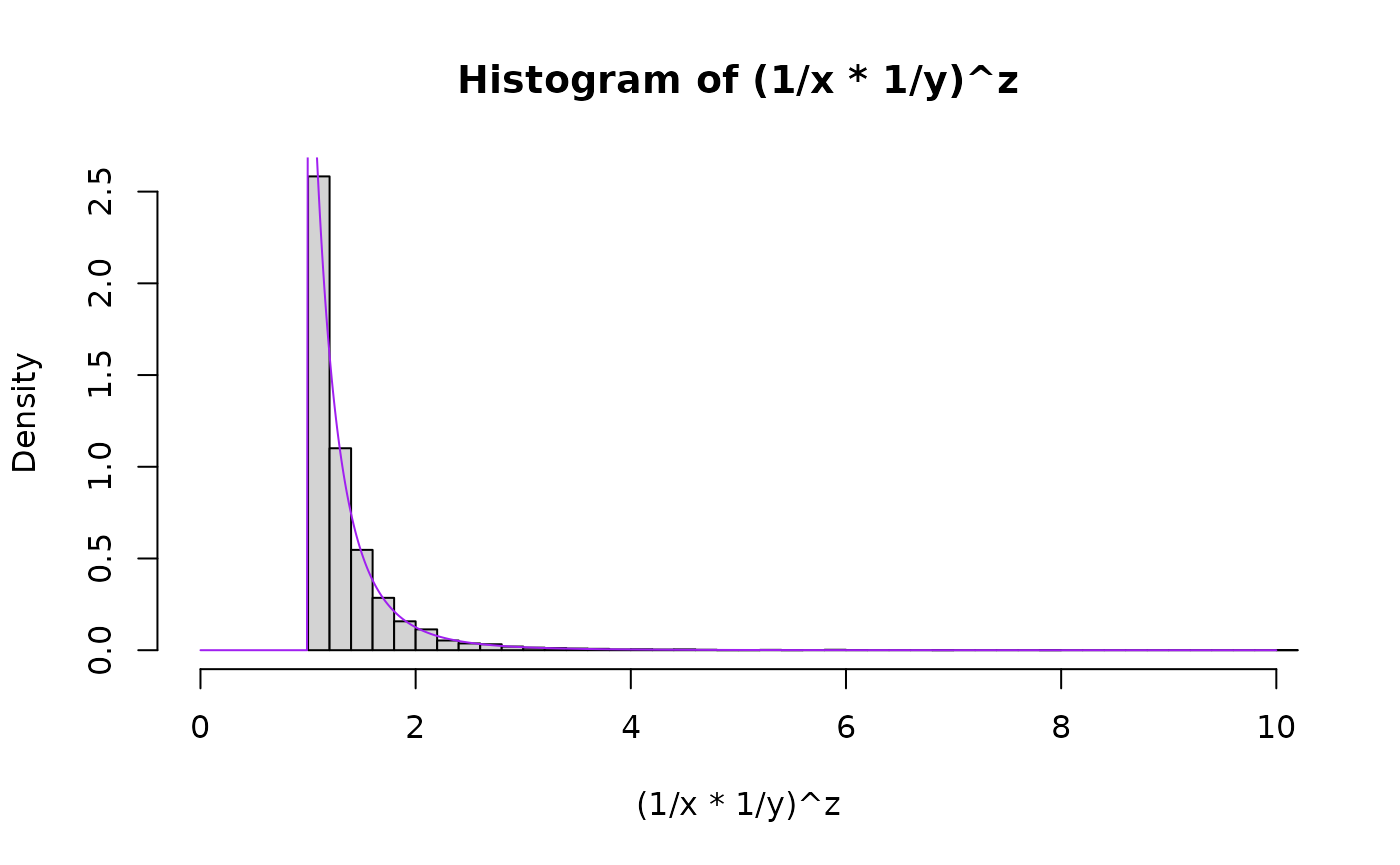
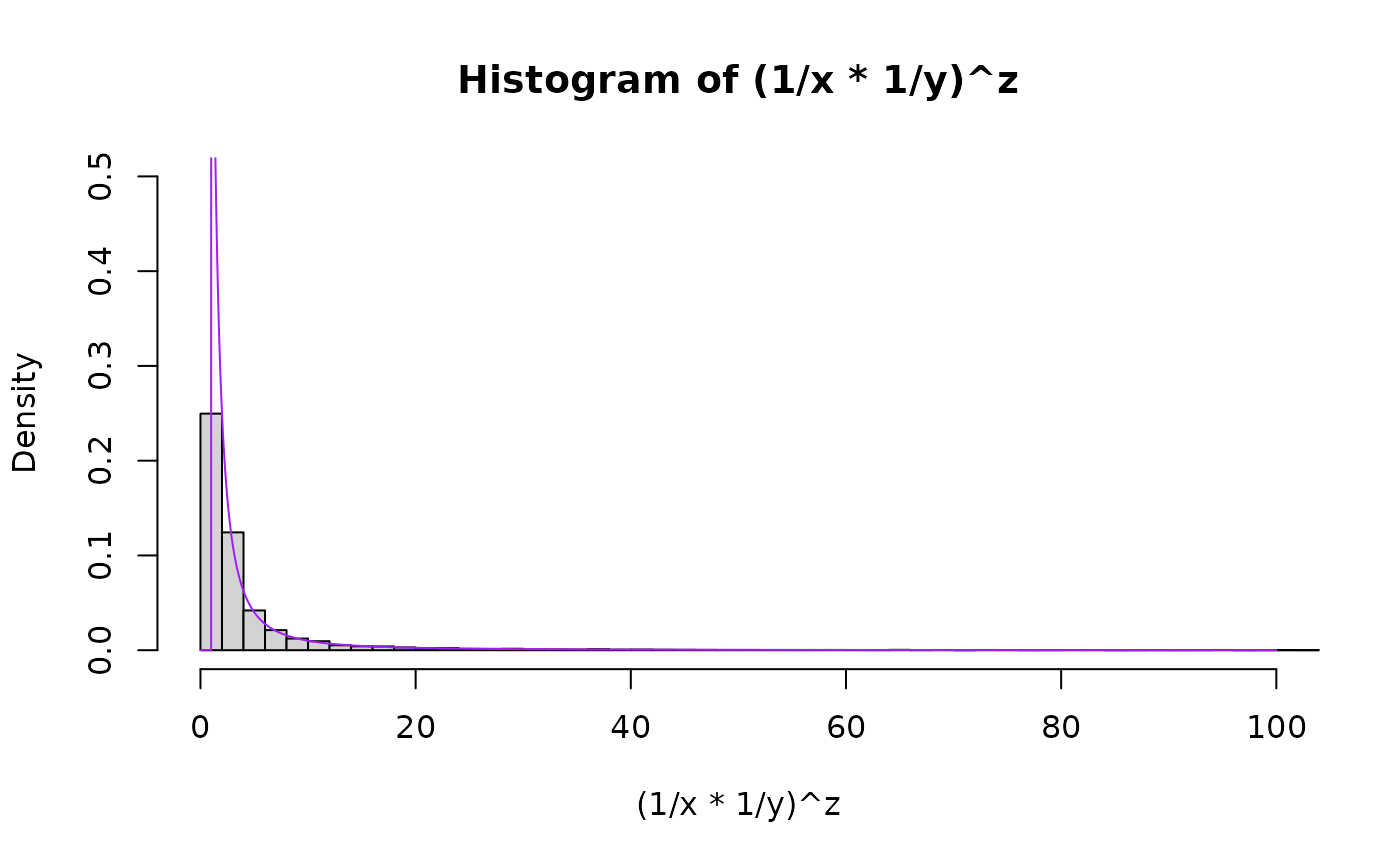
Deploying to gh-pages from @ swihart/mvpd@7a2cb15c7c6c877df708864ca148e577ea77bc69 🚀

diff --git a/articles/xy_to_the_z_part_i.html b/articles/xy_to_the_z_part_i.html
@@ -216,20 +216,27 @@ as an arbitrary value smaller than 1.</p>
 </div>
 </div>
 <div class="section level3">
-<h3 id="log-scale-intuition-building">Log-scale intuition building<a class="anchor" aria-label="anchor" href="#log-scale-intuition-building"></a>
+<h3 id="log-scale-for-intuition-building">Log-scale for intuition building<a class="anchor" aria-label="anchor" href="#log-scale-for-intuition-building"></a>
 </h3>
 <p>Consider the log scale, which changes the relation from a product
 raised to a power into a sum multiplied by a number. In other words, a
 convolution (sum of two random variables) and a scale mixture (then
-multiplied by a random variable). Take a look at this for alpha=1:</p>
+multiplied by a random variable).</p>
+<p>We will visualize this using 5 plots arranged in a 3x3 grid. The left
+column will show the distributions of each of the 3 components of
+consideration (log(X), log(Y), and Z), the middle column will just show
+the convolution of log(X) and log(Y), that is to say log(X)+log(Y), and
+the third one will show the scale mixture applied to the
+convolution.</p>
+<p>Take a look at this for alpha=1:</p>
 <p><img src="xy_to_the_z_part_i_files/figure-html/unnamed-chunk-5-1.png" width="700"></p>
 <p>Quick observations –</p>
 <ul>
 <li>log(X): is a reflected Exponential, as is log(Y)</li>
 <li>log(X) + log(Y): the convolution (i.e., sum) of two reflected
 Exponentials is more disperse and squattier. We know this because think
-of adding two normals together and the resultant Normal have the sum of
-the variance.</li>
+of adding two normals together and the variance of the resultant Normal
+having the sum of the variances of the original normals.</li>
 <li>Z(log(X)+log(Y)): to “recover” or “get back to” the original
 distribution before the convolution, we need to “tighten” or “gather” or
 “concentrate” the distribution. Multiplying it by a random number
@@ -255,30 +262,39 @@ the theory in action for
 <math display="inline" xmlns="http://www.w3.org/1998/Math/MathML"><semantics><mrow><msup><mrow><mo stretchy="true" form="prefix">(</mo><mfrac><mn>1</mn><mrow><mi>X</mi><mi>Y</mi></mrow></mfrac><mo stretchy="true" form="postfix">)</mo></mrow><mi>Z</mi></msup><mo>∼</mo></mrow><annotation encoding="application/x-tex">\left(\frac{1}{XY} \right)^Z  \sim</annotation></semantics></math>
 Pareto(<math display="inline" xmlns="http://www.w3.org/1998/Math/MathML"><semantics><mrow><msub><mi>x</mi><mi>m</mi></msub><mo>=</mo><mn>1</mn></mrow><annotation encoding="application/x-tex">x_m=1</annotation></semantics></math>,
 <math display="inline" xmlns="http://www.w3.org/1998/Math/MathML"><semantics><mrow><msub><mi>α</mi><mi>m</mi></msub><mo>=</mo><mi>α</mi></mrow><annotation encoding="application/x-tex">\alpha_m = \alpha</annotation></semantics></math>).
-We’ll plot the theoretical result in purple on top of the histogram.</p>
+We’ll plot the theoretical result in purple on top of the histogram.
+First for
+<math display="inline" xmlns="http://www.w3.org/1998/Math/MathML"><semantics><mrow><mi>α</mi><mo>=</mo><mn>1</mn></mrow><annotation encoding="application/x-tex">\alpha=1</annotation></semantics></math>,
+the special uniform instance (because that is what started it all for
+Result 1!) and
+<math display="inline" xmlns="http://www.w3.org/1998/Math/MathML"><semantics><mrow><mi>α</mi><mo>=</mo><mn>4.318</mn></mrow><annotation encoding="application/x-tex">\alpha=4.318</annotation></semantics></math>
+as an arbitrary value bigger than 1 and
+<math display="inline" xmlns="http://www.w3.org/1998/Math/MathML"><semantics><mrow><mi>α</mi><mo>=</mo><mn>0.633</mn></mrow><annotation encoding="application/x-tex">\alpha=0.633</annotation></semantics></math>
+as an arbitrary value smaller than 1.</p>
+<div class="section level4">
+<h4 id="alpha-1-000">alpha = 1.000<a class="anchor" aria-label="anchor" href="#alpha-1-000"></a>
+</h4>
 <div class="sourceCode" id="cb2"><pre class="downlit sourceCode r">
 <code class="sourceCode R"><span><span class="fu"><a href="https://rdrr.io/r/base/Random.html" class="external-link">set.seed</a></span><span class="op">(</span><span class="fl">1</span><span class="op">)</span></span>
 <span><span class="va">nsims</span> <span class="op">&lt;-</span> <span class="fl">1e4</span></span>
-<span><span class="va">aa_x</span> <span class="op">&lt;-</span> <span class="fl">4</span></span>
-<span><span class="va">aa_y</span> <span class="op">&lt;-</span> <span class="fl">4</span></span>
+<span><span class="va">aa_x</span> <span class="op">&lt;-</span> <span class="fl">1</span></span>
+<span><span class="va">aa_y</span> <span class="op">&lt;-</span> <span class="fl">1</span></span>
 <span></span>
 <span><span class="va">x</span> <span class="op">&lt;-</span> <span class="fu"><a href="https://rdrr.io/r/stats/Beta.html" class="external-link">rbeta</a></span><span class="op">(</span><span class="va">nsims</span>,<span class="va">aa_x</span>,<span class="fl">1</span><span class="op">)</span> <span class="co">##runif(nsims,0,1)</span></span>
 <span><span class="va">y</span> <span class="op">&lt;-</span> <span class="fu"><a href="https://rdrr.io/r/stats/Beta.html" class="external-link">rbeta</a></span><span class="op">(</span><span class="va">nsims</span>,<span class="va">aa_y</span>,<span class="fl">1</span><span class="op">)</span> <span class="co">##runif(nsims,0,1)</span></span>
 <span><span class="va">z</span> <span class="op">&lt;-</span> <span class="fu"><a href="https://rdrr.io/r/stats/Uniform.html" class="external-link">runif</a></span><span class="op">(</span><span class="va">nsims</span>,<span class="fl">0</span>,<span class="fl">1</span><span class="op">)</span></span>
 <span></span>
+<span><span class="fu"><a href="https://rdrr.io/r/graphics/hist.html" class="external-link">hist</a></span><span class="op">(</span><span class="op">(</span><span class="fl">1</span><span class="op">/</span><span class="va">x</span><span class="op">*</span><span class="fl">1</span><span class="op">/</span><span class="va">y</span><span class="op">)</span><span class="op">^</span><span class="va">z</span>, breaks<span class="op">=</span><span class="fl">2</span><span class="op">*</span><span class="fl">500</span>, freq<span class="op">=</span><span class="cn">FALSE</span>, xlim<span class="op">=</span><span class="fu"><a href="https://rdrr.io/r/base/c.html" class="external-link">c</a></span><span class="op">(</span><span class="fl">0</span>,<span class="fl">100</span><span class="op">)</span>, ylim<span class="op">=</span><span class="fu"><a href="https://rdrr.io/r/base/c.html" class="external-link">c</a></span><span class="op">(</span><span class="fl">0</span>,<span class="fl">0.5</span><span class="op">)</span><span class="op">)</span></span>
 <span></span>
-<span>  </span>
-<span><span class="fu"><a href="https://rdrr.io/r/graphics/hist.html" class="external-link">hist</a></span><span class="op">(</span><span class="op">(</span><span class="fl">1</span><span class="op">/</span><span class="va">x</span><span class="op">*</span><span class="fl">1</span><span class="op">/</span><span class="va">y</span><span class="op">)</span><span class="op">^</span><span class="va">z</span>, breaks<span class="op">=</span><span class="fl">50</span>, freq<span class="op">=</span><span class="cn">FALSE</span>, xlim<span class="op">=</span><span class="fu"><a href="https://rdrr.io/r/base/c.html" class="external-link">c</a></span><span class="op">(</span><span class="fl">0</span>,<span class="fl">10</span><span class="op">)</span><span class="op">)</span></span>
-<span></span>
-<span><span class="fu"><a href="https://rdrr.io/r/graphics/lines.html" class="external-link">lines</a></span><span class="op">(</span>               <span class="fu"><a href="https://rdrr.io/r/base/seq.html" class="external-link">seq</a></span><span class="op">(</span><span class="fl">0</span>,<span class="fl">10</span>,<span class="fl">0.01</span><span class="op">)</span>,</span>
-<span>                     <span class="fu">LNPar</span><span class="fu">::</span><span class="fu"><a href="https://rdrr.io/pkg/LNPar/man/dpareto.html" class="external-link">dpareto</a></span><span class="op">(</span><span class="fu"><a href="https://rdrr.io/r/base/seq.html" class="external-link">seq</a></span><span class="op">(</span><span class="fl">0</span>,<span class="fl">10</span>,<span class="fl">0.01</span><span class="op">)</span>,<span class="fl">1</span>,alpha<span class="op">=</span><span class="va">aa_x</span><span class="op">)</span>,</span>
+<span><span class="fu"><a href="https://rdrr.io/r/graphics/lines.html" class="external-link">lines</a></span><span class="op">(</span>               <span class="fu"><a href="https://rdrr.io/r/base/seq.html" class="external-link">seq</a></span><span class="op">(</span><span class="fl">0</span>,<span class="fl">100</span>,<span class="fl">0.01</span><span class="op">)</span>,</span>
+<span>                     <span class="fu">LNPar</span><span class="fu">::</span><span class="fu"><a href="https://rdrr.io/pkg/LNPar/man/dpareto.html" class="external-link">dpareto</a></span><span class="op">(</span><span class="fu"><a href="https://rdrr.io/r/base/seq.html" class="external-link">seq</a></span><span class="op">(</span><span class="fl">0</span>,<span class="fl">100</span>,<span class="fl">0.01</span><span class="op">)</span>,<span class="fl">1</span>,alpha<span class="op">=</span><span class="va">aa_x</span><span class="op">)</span>,</span>
 <span>                     type<span class="op">=</span><span class="st">"l"</span>,</span>
 <span>                     col<span class="op">=</span><span class="st">"purple"</span></span>
 <span><span class="op">)</span></span>
 <span></span>
-<span><span class="fu"><a href="https://rdrr.io/r/graphics/hist.html" class="external-link">hist</a></span><span class="op">(</span><span class="fl">1</span><span class="op">/</span><span class="va">x</span>, freq<span class="op">=</span><span class="cn">FALSE</span>, breaks<span class="op">=</span><span class="fl">50</span>, xlim<span class="op">=</span><span class="fu"><a href="https://rdrr.io/r/base/c.html" class="external-link">c</a></span><span class="op">(</span><span class="fl">0</span>,<span class="fl">10</span><span class="op">)</span><span class="op">)</span></span>
-<span><span class="fu"><a href="https://rdrr.io/r/graphics/lines.html" class="external-link">lines</a></span><span class="op">(</span>               <span class="fu"><a href="https://rdrr.io/r/base/seq.html" class="external-link">seq</a></span><span class="op">(</span><span class="fl">0</span>,<span class="fl">10</span>,<span class="fl">0.01</span><span class="op">)</span>,</span>
-<span>                     <span class="fu">LNPar</span><span class="fu">::</span><span class="fu"><a href="https://rdrr.io/pkg/LNPar/man/dpareto.html" class="external-link">dpareto</a></span><span class="op">(</span><span class="fu"><a href="https://rdrr.io/r/base/seq.html" class="external-link">seq</a></span><span class="op">(</span><span class="fl">0</span>,<span class="fl">10</span>,<span class="fl">0.01</span><span class="op">)</span>,<span class="fl">1</span>,alpha<span class="op">=</span><span class="va">aa_x</span><span class="op">)</span>,</span>
+<span><span class="fu"><a href="https://rdrr.io/r/graphics/hist.html" class="external-link">hist</a></span><span class="op">(</span><span class="fl">1</span><span class="op">/</span><span class="va">x</span>, freq<span class="op">=</span><span class="cn">FALSE</span>, breaks<span class="op">=</span><span class="fl">2</span><span class="op">*</span><span class="fl">3000</span>, xlim<span class="op">=</span><span class="fu"><a href="https://rdrr.io/r/base/c.html" class="external-link">c</a></span><span class="op">(</span><span class="fl">0</span>,<span class="fl">100</span><span class="op">)</span>, ylim<span class="op">=</span><span class="fu"><a href="https://rdrr.io/r/base/c.html" class="external-link">c</a></span><span class="op">(</span><span class="fl">0</span>,<span class="fl">0.5</span><span class="op">)</span><span class="op">)</span></span>
+<span><span class="fu"><a href="https://rdrr.io/r/graphics/lines.html" class="external-link">lines</a></span><span class="op">(</span>               <span class="fu"><a href="https://rdrr.io/r/base/seq.html" class="external-link">seq</a></span><span class="op">(</span><span class="fl">0</span>,<span class="fl">100</span>,<span class="fl">0.01</span><span class="op">)</span>,</span>
+<span>                     <span class="fu">LNPar</span><span class="fu">::</span><span class="fu"><a href="https://rdrr.io/pkg/LNPar/man/dpareto.html" class="external-link">dpareto</a></span><span class="op">(</span><span class="fu"><a href="https://rdrr.io/r/base/seq.html" class="external-link">seq</a></span><span class="op">(</span><span class="fl">0</span>,<span class="fl">100</span>,<span class="fl">0.01</span><span class="op">)</span>,<span class="fl">1</span>,alpha<span class="op">=</span><span class="va">aa_x</span><span class="op">)</span>,</span>
 <span>                     type<span class="op">=</span><span class="st">"l"</span>,</span>
 <span>                     col<span class="op">=</span><span class="st">"purple"</span></span>
 <span><span class="op">)</span></span>
@@ -286,28 +302,30 @@ We’ll plot the theoretical result in purple on top of the histogram.</p>
 <span><span class="co">## compare mean, variance, and 2nd moment</span></span>
 <span><span class="va">prod</span> <span class="op">&lt;-</span> <span class="op">(</span><span class="fl">1</span><span class="op">/</span><span class="va">x</span><span class="op">*</span><span class="fl">1</span><span class="op">/</span><span class="va">y</span><span class="op">)</span><span class="op">^</span><span class="va">z</span></span>
 <span><span class="fu"><a href="https://rdrr.io/r/base/mean.html" class="external-link">mean</a></span><span class="op">(</span><span class="va">prod</span><span class="op">)</span></span>
-<span><span class="co">#&gt; [1] 1.337099</span></span>
+<span><span class="co">#&gt; [1] 8.878238</span></span>
 <span><span class="fu"><a href="https://rdrr.io/r/stats/cor.html" class="external-link">var</a></span><span class="op">(</span><span class="va">prod</span><span class="op">)</span></span>
-<span><span class="co">#&gt; [1] 0.218648</span></span>
+<span><span class="co">#&gt; [1] 4277.258</span></span>
 <span><span class="fu"><a href="https://rdrr.io/r/stats/cor.html" class="external-link">var</a></span><span class="op">(</span><span class="va">prod</span><span class="op">)</span> <span class="op">+</span> <span class="fu"><a href="https://rdrr.io/r/base/mean.html" class="external-link">mean</a></span><span class="op">(</span><span class="va">prod</span><span class="op">)</span><span class="op">^</span><span class="fl">2</span></span>
-<span><span class="co">#&gt; [1] 2.006483</span></span>
+<span><span class="co">#&gt; [1] 4356.082</span></span>
 <span></span>
 <span></span>
 <span><span class="fu"><a href="https://rdrr.io/r/base/mean.html" class="external-link">mean</a></span><span class="op">(</span><span class="fl">1</span><span class="op">/</span><span class="va">x</span><span class="op">)</span></span>
-<span><span class="co">#&gt; [1] 1.333382</span></span>
+<span><span class="co">#&gt; [1] 10.28434</span></span>
 <span><span class="fu"><a href="https://rdrr.io/r/stats/cor.html" class="external-link">var</a></span><span class="op">(</span><span class="fl">1</span><span class="op">/</span><span class="va">x</span><span class="op">)</span></span>
-<span><span class="co">#&gt; [1] 0.2108825</span></span>
+<span><span class="co">#&gt; [1] 32794.94</span></span>
 <span><span class="fu"><a href="https://rdrr.io/r/stats/cor.html" class="external-link">var</a></span><span class="op">(</span><span class="fl">1</span><span class="op">/</span><span class="va">x</span><span class="op">)</span> <span class="op">+</span> <span class="fu"><a href="https://rdrr.io/r/base/mean.html" class="external-link">mean</a></span><span class="op">(</span><span class="fl">1</span><span class="op">/</span><span class="va">x</span><span class="op">)</span><span class="op">^</span><span class="fl">2</span></span>
-<span><span class="co">#&gt; [1] 1.98879</span></span></code></pre></div>
+<span><span class="co">#&gt; [1] 32900.71</span></span></code></pre></div>
 <p><img src="xy_to_the_z_part_i_files/figure-html/unnamed-chunk-8-1.png" width="50%"><img src="xy_to_the_z_part_i_files/figure-html/unnamed-chunk-8-2.png" width="50%"></p>
-<div class="section level4">
-<h4 id="section"></h4>
 </div>
 <div class="section level4">
-<h4 id="section-1"></h4>
+<h4 id="alpha-4-318-2">alpha = 4.318<a class="anchor" aria-label="anchor" href="#alpha-4-318-2"></a>
+</h4>
+<p><img src="xy_to_the_z_part_i_files/figure-html/unnamed-chunk-9-1.png" width="50%"><img src="xy_to_the_z_part_i_files/figure-html/unnamed-chunk-9-2.png" width="50%"></p>
 </div>
 <div class="section level4">
-<h4 id="section-2"></h4>
+<h4 id="alpha-0-633-2">alpha = 0.633<a class="anchor" aria-label="anchor" href="#alpha-0-633-2"></a>
+</h4>
+<p><img src="xy_to_the_z_part_i_files/figure-html/unnamed-chunk-10-1.png" width="50%"><img src="xy_to_the_z_part_i_files/figure-html/unnamed-chunk-10-2.png" width="50%"></p>
 </div>
 </div>
 </div>

diff --git a/articles/deep_dive_kolm.html b/articles/deep_dive_kolm.html
@@ -350,7 +350,7 @@ the denominators, and then take the square root of that sum.</p>
 <span><span class="va">rkdraw</span> <span class="op">&lt;-</span> <span class="fu"><a href="../reference/rkolm.html">rkolm</a></span><span class="op">(</span><span class="fl">5e4</span>, nterms<span class="op">=</span><span class="fl">5e2</span><span class="op">)</span></span>
 <span><span class="va">end</span> <span class="op">&lt;-</span> <span class="fu"><a href="https://rdrr.io/r/base/Sys.time.html" class="external-link">Sys.time</a></span><span class="op">(</span><span class="op">)</span></span>
 <span><span class="va">end</span><span class="op">-</span><span class="va">beg</span></span>
-<span><span class="co">#&gt; Time difference of 0.8845792 secs</span></span>
+<span><span class="co">#&gt; Time difference of 0.8818142 secs</span></span>
 <span></span>
 <span><span class="co">## Expected value</span></span>
 <span><span class="fu"><a href="https://rdrr.io/r/base/print.html" class="external-link">print</a></span><span class="op">(</span><span class="fu"><a href="https://rdrr.io/r/base/matrix.html" class="external-link">matrix</a></span><span class="op">(</span><span class="fu"><a href="https://rdrr.io/r/base/c.html" class="external-link">c</a></span><span class="op">(</span></span>
